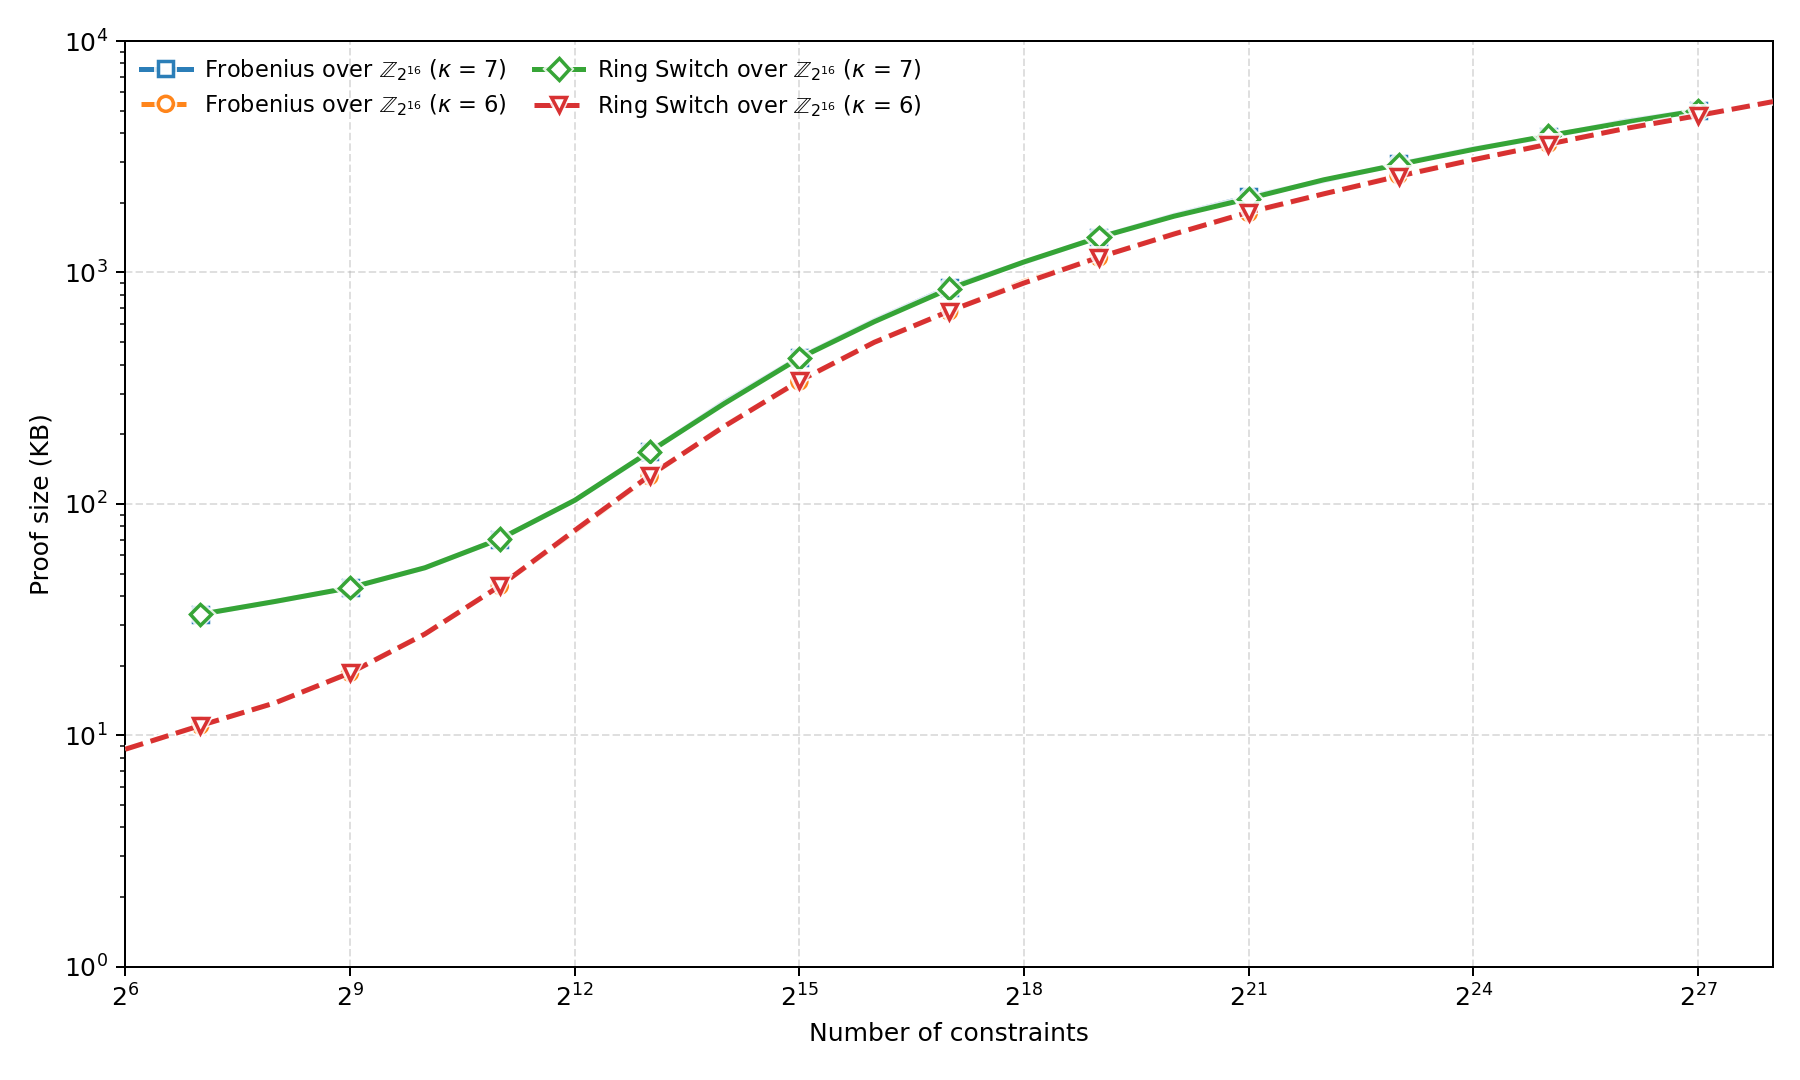
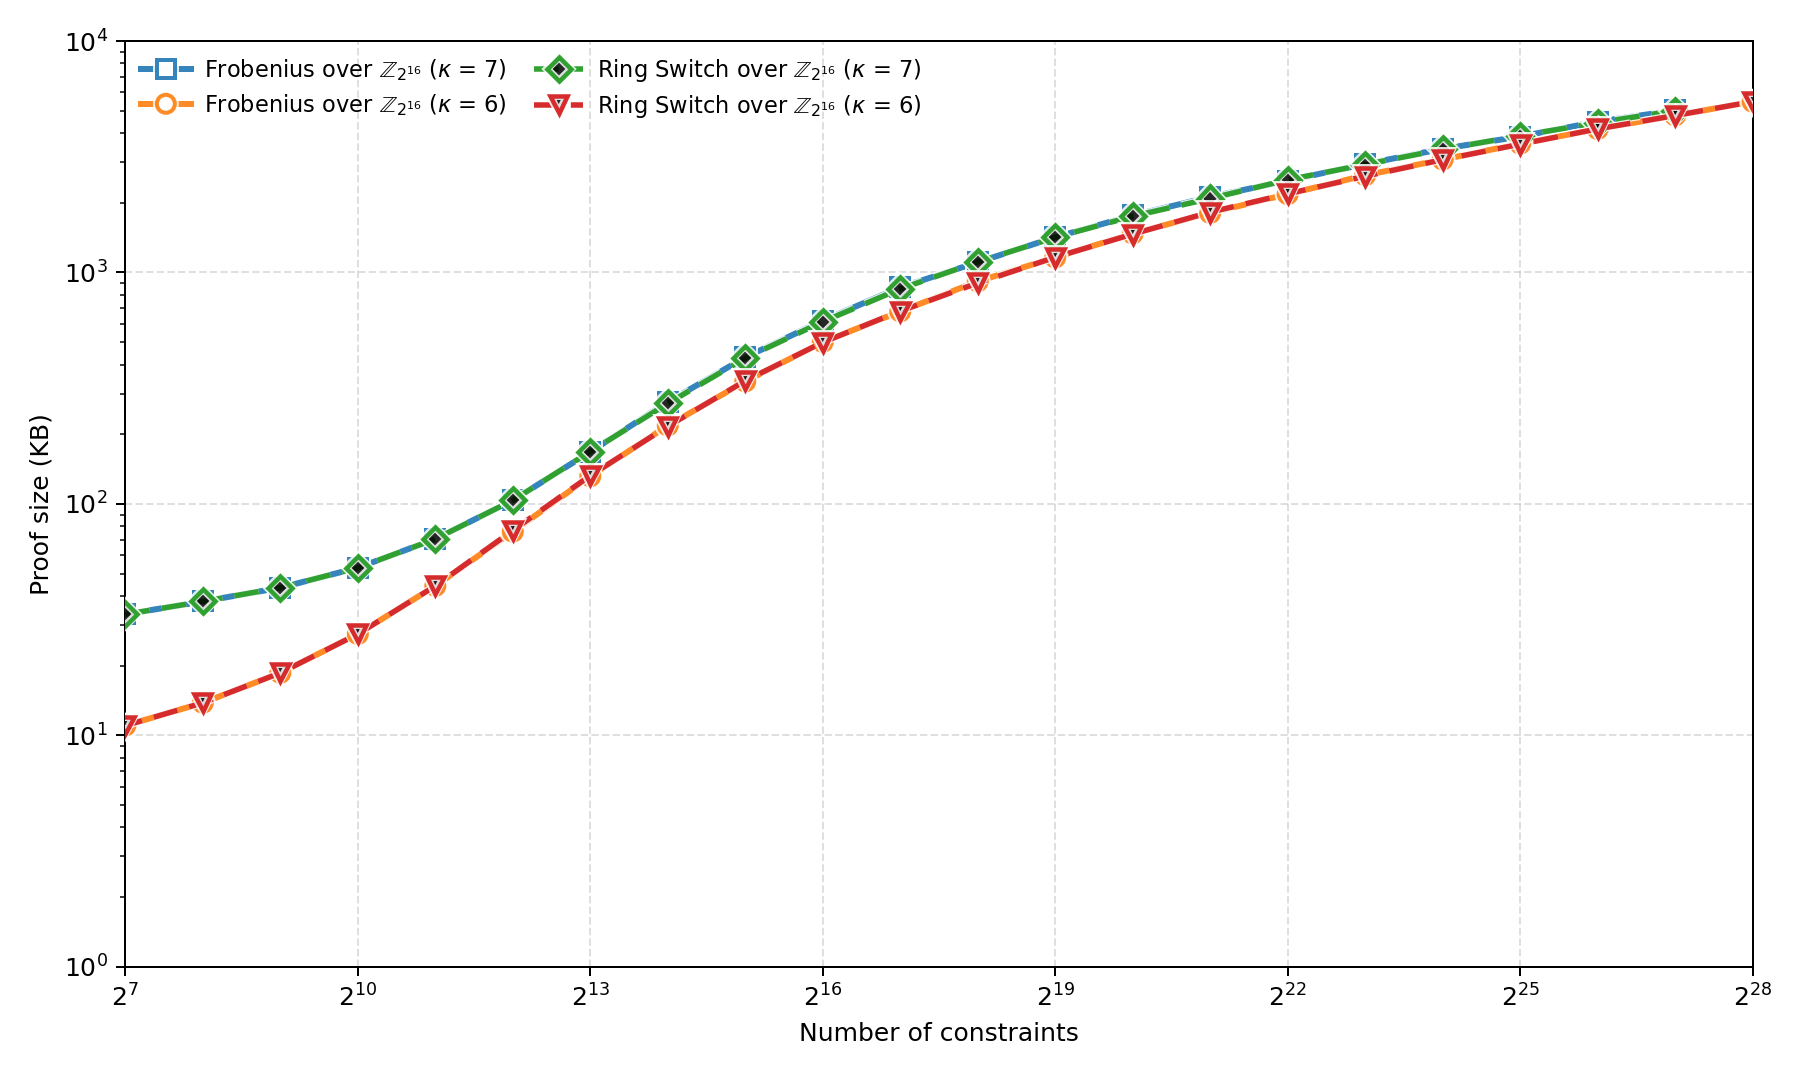
Update compiler eval results and refine PCSoverZ2K plots

diff --git a/scripts/plot_benchmark_results.py b/scripts/plot_benchmark_results.py
@@ -502,17 +502,19 @@ def plot_metric_vs_constraints(
     compiler_overlap_style: bool = False,
 ) -> PlotResult | None:
     fig, ax = plt.subplots(figsize=(10, 6))
-    plotted_count = 0
     all_x_values: List[float] = []
     all_y_values: List[float] = []
     legend_entries: List[LegendEntry] = []
+    visible_series = [
+        (series, series.points_by_metric.get(metric.key, []))
+        for series in series_list
+        if series.points_by_metric.get(metric.key, [])
+    ]
+    plotted_count = len(visible_series)
 
     marker_cycle = cycle(["s", "o", "D", "v", "^", "P", "X", "<", ">"])
 
-    for idx, series in enumerate(series_list):
-        points = series.points_by_metric.get(metric.key, [])
-        if not points:
-            continue
+    for idx, (series, points) in enumerate(visible_series):
         x_values = [x for x, _ in points]
         y_values = [y for _, y in points]
         all_x_values.extend(x_values)
@@ -520,25 +522,44 @@ def plot_metric_vs_constraints(
 
         marker = next(marker_cycle)
         linestyle = "-"
-        markevery: int | tuple[int, int] = 1
+        linewidth = 2
+        markersize = 6
+        markerfacecolor = "white"
+        markeredgewidth = 1.4
+        alpha = 0.95
+        plot_x_values = x_values
+        zorder = 3 + idx
         if compiler_overlap_style:
-            # Keep data coordinates exact while making nearly identical compiler
-            # curves distinguishable via alternating markers and line styles.
-            linestyle = "-" if idx % 2 == 0 else "--"
-            markevery = (idx % 2, 2)
+            # Keep coordinates exact while separating nearly identical
+            # compiler curves via line style and marker treatment.
+            lower_label = series.label.lower()
+            if "ring switch" in lower_label:
+                linestyle = (0, (4.5, 2.2))
+                linewidth = 2.2
+                markersize = 6.8
+                markerfacecolor = "none"
+                markeredgewidth = 1.8
+                alpha = 0.98
+                zorder = 10 + idx
+            else:
+                linestyle = "-"
+                linewidth = 2.4
+                markersize = 7.2
+                markerfacecolor = "white"
+                markeredgewidth = 1.6
+                alpha = 0.9
         (line,) = ax.plot(
-            x_values,
+            plot_x_values,
             y_values,
             marker=marker,
-            linewidth=2,
-            markersize=6,
-            markerfacecolor="white",
-            markeredgewidth=1.4,
+            linewidth=linewidth,
+            markersize=markersize,
+            markerfacecolor=markerfacecolor,
+            markeredgewidth=markeredgewidth,
             linestyle=linestyle,
-            alpha=0.95,
-            markevery=markevery,
+            alpha=alpha,
             label=series.label,
-            zorder=3 + idx,
+            zorder=zorder,
         )
         line.set_path_effects(
             [pe.Stroke(linewidth=3.2, foreground="white", alpha=0.85), pe.Normal()]
@@ -565,6 +586,8 @@ def plot_metric_vs_constraints(
         x_max = max(all_x_values)
         x_min_pow = 2 ** math.floor(math.log2(x_min))
         x_max_pow = 2 ** math.ceil(math.log2(x_max))
+        if compiler_overlap_style:
+            x_min_pow = max(x_min_pow, 2 ** 7)
         if x_max_pow <= x_min_pow:
             x_max_pow = x_min_pow * 2
         ax.set_xlim(x_min_pow, x_max_pow)
@@ -576,6 +599,8 @@ def plot_metric_vs_constraints(
                 if x > 0 and abs(math.log2(x) - round(math.log2(x))) <= 1e-8
             }
         )
+        if power_ticks:
+            power_ticks = [tick for tick in power_ticks if tick >= x_min_pow]
         if power_ticks:
             ax.set_xticks(power_ticks)
     ax.set_xscale("log", base=2)
